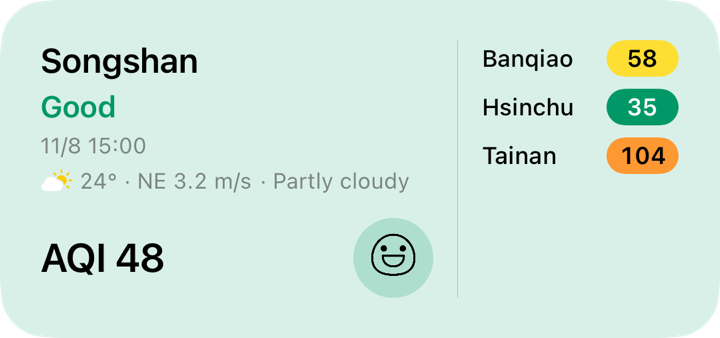
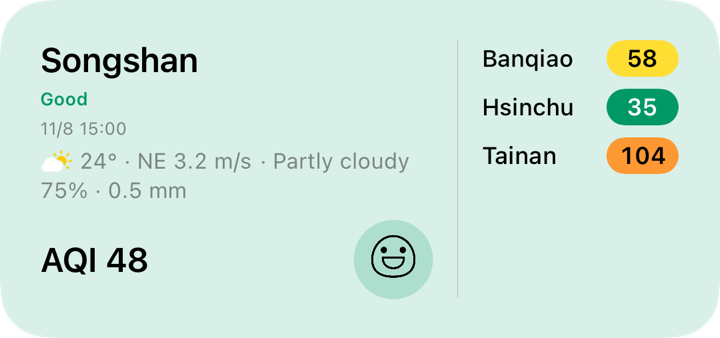
FOX-181: Medium widget shows humidity and rain today on a second line

diff --git a/ios/TWAQIWidget/TWAQIWidget.swift b/ios/TWAQIWidget/TWAQIWidget.swift
@@ -906,30 +906,36 @@ struct ReadingWidgetView: View {
         .accessibilityLabel(Text("Widget.weather_label \(weather.map { $0.spokenText(chinese: Locale.isChinese) } ?? "—")"))
     }
 
-    /// Medium: one line, icon, temperature, wind and sky. Humidity and rain
-    /// are dropped before the air quality values lose any room.
+    /// Medium: icon, temperature, wind and sky, then humidity and rain today.
     private var compactWeather: some View {
-        HStack(spacing: 4) {
-            Image(systemName: entry.weather?.symbol ?? "cloud.fill")
-                .symbolRenderingMode(.multicolor)
-                .opacity(entry.weather == nil ? 0.35 : 1)
-                .accessibilityHidden(true)
+        VStack(alignment: .leading, spacing: 1) {
+            HStack(spacing: 4) {
+                Image(systemName: entry.weather?.symbol ?? "cloud.fill")
+                    .symbolRenderingMode(.multicolor)
+                    .opacity(entry.weather == nil ? 0.35 : 1)
+                    .accessibilityHidden(true)
+                if let weather = entry.weather {
+                    Text(verbatim: weather.compactLead)
+                        .monospacedDigit()
+                        .lineLimit(1)
+                        .fixedSize()
+                    if let sky = weather.skyText(chinese: Locale.isChinese) {
+                        Text(verbatim: "· \(sky)")
+                            .lineLimit(1)
+                            .truncationMode(.tail)
+                    }
+                } else {
+                    Text(verbatim: "—")
+                }
+            }
             if let weather = entry.weather {
-                Text(verbatim: weather.compactLead)
+                Text(verbatim: weather.compactDetail)
                     .monospacedDigit()
                     .lineLimit(1)
-                    .fixedSize()
-                if let sky = weather.skyText(chinese: Locale.isChinese) {
-                    Text(verbatim: "· \(sky)")
-                        .lineLimit(1)
-                        .truncationMode(.tail)
-                }
-            } else {
-                Text(verbatim: "—")
             }
         }
         .accessibilityElement(children: .combine)
-        .accessibilityLabel(Text("Widget.weather_label \(entry.weather.map { $0.compactText(chinese: Locale.isChinese) } ?? "—")"))
+        .accessibilityLabel(Text("Widget.weather_label \(entry.weather.map { $0.spokenText(chinese: Locale.isChinese) } ?? "—")"))
         .font(.caption2)
         .foregroundStyle(.secondary)
     }

diff --git a/ios/TWAQITests/WidgetWeatherTests.swift b/ios/TWAQITests/WidgetWeatherTests.swift
@@ -133,13 +133,12 @@ final class WidgetWeatherTests: XCTestCase {
         XCTAssertNil(WidgetWeather(temperature: 20).skyText(chinese: true))
     }
 
-    func testCompactLineDropsHumidityAndRain() {
+    func testMediumLinesAreLeadAndDetail() {
         let weather = WidgetWeather(
             temperature: 24.3, humidity: 75, rain: 0.5, windSpeed: 3.2, windDirection: 45, code: 4, cwaText: "多雲"
         )
-        XCTAssertEqual(weather.compactText(chinese: true), "24° · NE 3.2 m/s · 多雲")
-        XCTAssertFalse(weather.compactText(chinese: true).contains("75"))
-        XCTAssertFalse(weather.compactText(chinese: true).contains("mm"))
+        XCTAssertEqual(weather.compactLead, "24° · NE 3.2 m/s")
+        XCTAssertEqual(weather.compactDetail, "75% · 0.5 mm")
     }
 
     func testSpokenTextCoversEveryShownField() {
@@ -150,9 +149,9 @@ final class WidgetWeatherTests: XCTestCase {
         XCTAssertEqual(weather.compactLead, "24° · NE 3.2 m/s")
     }
 
-    func testCompactLineWithMissingFieldsShowsDashes() {
-        XCTAssertEqual(WidgetWeather(code: 4, cwaText: "多雲").compactText(chinese: true), "— · — · 多雲")
-        XCTAssertEqual(WidgetWeather(temperature: 20).compactText(chinese: true), "20° · —")
+    func testMediumLinesWithMissingFieldsShowDashes() {
+        XCTAssertEqual(WidgetWeather(code: 4, cwaText: "多雲").compactLead, "— · —")
+        XCTAssertEqual(WidgetWeather(temperature: 20).compactDetail, "— · —")
     }
 
     func testDetailItemsAreHumidityRainWind() {

diff --git a/ios/TWAQI/Utils/WidgetWeather.swift b/ios/TWAQI/Utils/WidgetWeather.swift
@@ -129,24 +129,21 @@ struct WidgetWeather: Equatable {
         ]
     }
 
-    /// The medium widget's one compact line: temperature, wind, sky. Humidity,
-    /// rain and chance of rain are dropped: the least useful of the fields
-    /// next to the air quality values.
-    func compactText(chinese: Bool) -> String {
-        var parts = [compactLead]
-        if let sky = skyText(chinese: chinese) {
-            parts.append(sky)
-        }
-        return parts.joined(separator: " · ")
-    }
-
+    /// The medium widget's first line is `compactLead` and the sky; the
+    /// second is `compactDetail`. Chance of rain is the one field left to the
+    /// station page.
     /// The compact line without the sky: temperature and wind, which stay at
     /// full size while a long sky text is truncated.
     var compactLead: String {
         "\(Self.temperatureText(temperature)) · \(Self.windText(speed: windSpeed, direction: windDirection))"
     }
 
-    /// Everything the large row shows, for VoiceOver.
+    /// Humidity and rain today, the medium widget's second line.
+    var compactDetail: String {
+        "\(Self.percentText(humidity)) · \(Self.rainText(rain))"
+    }
+
+    /// Everything the widget shows, for VoiceOver.
     func spokenText(chinese: Bool) -> String {
         ([Self.temperatureText(temperature), skyText(chinese: chinese)].compactMap { $0 } + detailItems)
             .joined(separator: " · ")
